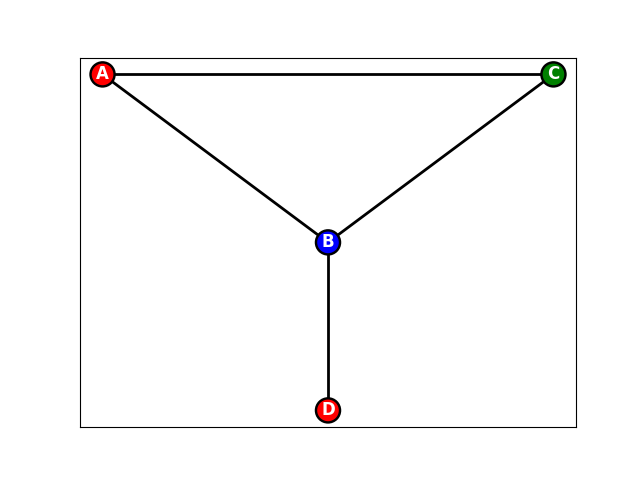
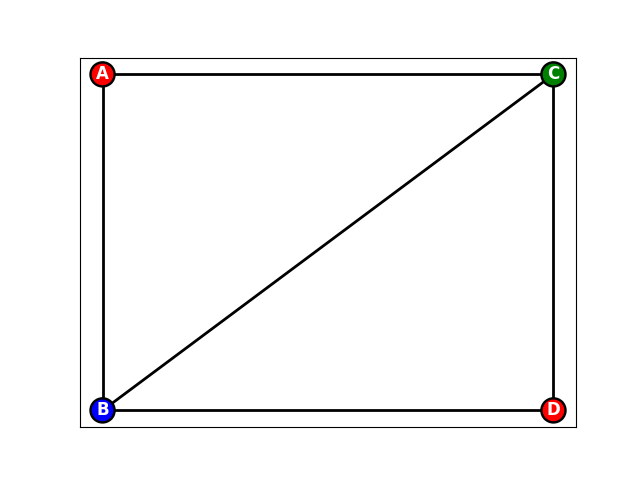
Changed Example Greedy

diff --git a/Code/Example-Greedy-Colouring-End.py b/Code/Example-Greedy-Colouring-End.py
@@ -21,7 +21,7 @@ def numerical_to_colours(colouring):
 #Define the graph
 G = nx.Graph()
 G.add_nodes_from([chr(i) for i in range(65, 69)])
-edges = [('A', 'B'), ('A', 'C'), ('B', 'C'), ('B', 'D')]
+edges = edges = [('A', 'B'), ('A', 'C'), ('B', 'C'), ('B', 'D'), ('C', 'D')]
 G.add_edges_from(edges)
 
 #Define the colouring
@@ -33,7 +33,7 @@ output_colouring = numerical_to_colours(colouring)
 
 vertices = list(G.nodes())
 
-pos = {'A': (-1, 0), 'B': (0, -0.5), 'C': (1, 0), 'D': (0, -1)}
+pos = {'A': (-1, 0), 'B': (-1, -0.5), 'C': (1, 0), 'D': (1, -0.5)}
 
 #Labels of node name
 

diff --git a/Code/Example-Greedy-Colouring-Start.py b/Code/Example-Greedy-Colouring-Start.py
@@ -6,14 +6,14 @@ import matplotlib.pyplot as plt
 #Define the graph
 G = nx.Graph()
 G.add_nodes_from([chr(i) for i in range(65, 69)])
-edges = [('A', 'B'), ('A', 'C'), ('B', 'C'), ('B', 'D')]
+edges = edges = [('A', 'B'), ('A', 'C'), ('B', 'C'), ('B', 'D'), ('C', 'D')]
 G.add_edges_from(edges)
 
 #Define the positions of the vertices
 
 vertices = list(G.nodes())
 
-pos = {'A': (-1, 0), 'B': (0, -0.5), 'C': (1, 0), 'D': (0, -1)}
+pos = {'A': (-1, 0), 'B': (-1, -0.5), 'C': (1, 0), 'D': (1, -0.5)}
 
 #Labels of node name
 
